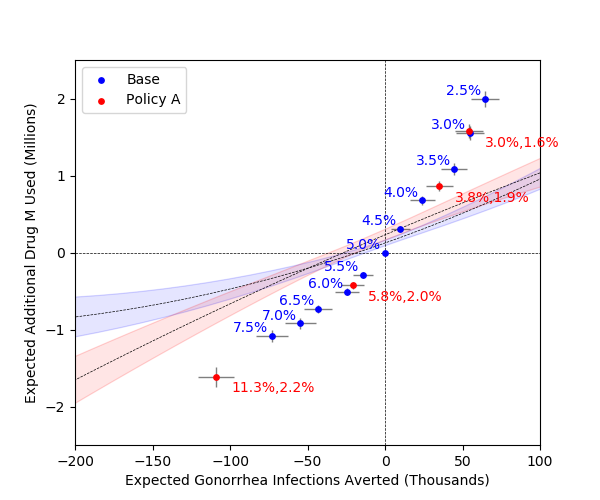
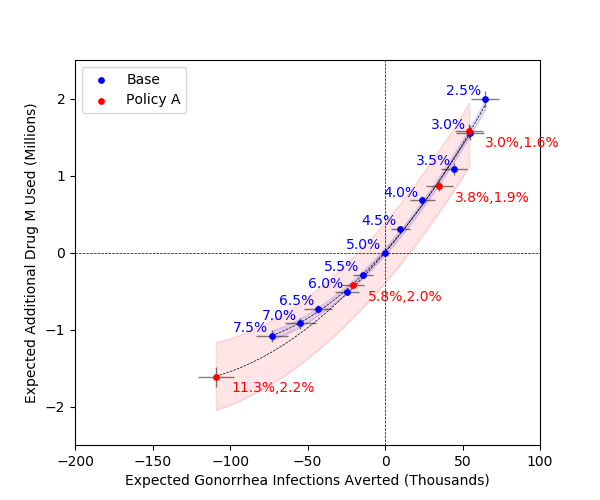
adding CIs for regression

Changed region(s): [[0.12, 0.21, 0.9, 0.84]]

diff --git a/apace/ScenariosClasses.py b/apace/ScenariosClasses.py
@@ -434,6 +434,7 @@ def plot_series(series, x_label, y_label, file_name,
 
             # scatter plot for all points
             ax.scatter(ser.xValues, ser.yValues, color=ser.color, alpha=1, zorder=10, s=15, label=ser.name)
+            #ax.scatter(ser.allDeltaEffects, ser.allDeltaCosts, color=ser.color, alpha=.5, zorder=10, s=5, label=ser.name)
 
             # error bars
             if show_error_bars:
@@ -452,8 +453,8 @@ def plot_series(series, x_label, y_label, file_name,
                     )
 
             # fit a quadratic function to the curve.
-            y = np.array(ser.allDeltaCosts) #allDeltaCosts)
-            x = np.array(ser.allDeltaEffects) #allDeltaEffects)
+            y = np.array(ser.yValues) #allDeltaCosts)
+            x = np.array(ser.xValues) #allDeltaEffects)
             quad_reg = Reg.SingleVarRegression(x, y)
 
             xs = np.linspace(min(x), max(x), 50)

diff --git a/gonorrhea/GonoSettings.py b/gonorrhea/GonoSettings.py
@@ -6,7 +6,7 @@ Y_RANGE = (-2.5, 2.5)
 # file names for scenario analysis
 SA_FILE_NAMES = ['csvfiles\SAAll.csv',
                  'csvfiles\SABase.csv',
-                 'csvfiles\SAAll_NoDR_Noise100.csv',
+                 'csvfiles\SADebug.csv',
                  'csvfiles\SAAll_NoDR_Noise1000.csv']
 SELECTED_SA_FILE_NAME = SA_FILE_NAMES[INDX]
 
@@ -17,5 +17,5 @@ SELECTED_POSTERIOR_FILE_NAME = POSTERIOR_FILE_NAMES[INDX]
 
 # file names for calibration
 CALIB_FILE_NAMES \
-    = ['csvfiles\Trajs.csv', 'csvfiles\Trajs.csv', '']
+    = ['csvfiles\Trajs.csv', 'csvfiles\Trajs.csv', 'csvfiles\Trajs.csv']
 SELECTED_CALIB_FILE_NAME = CALIB_FILE_NAMES[INDX]
